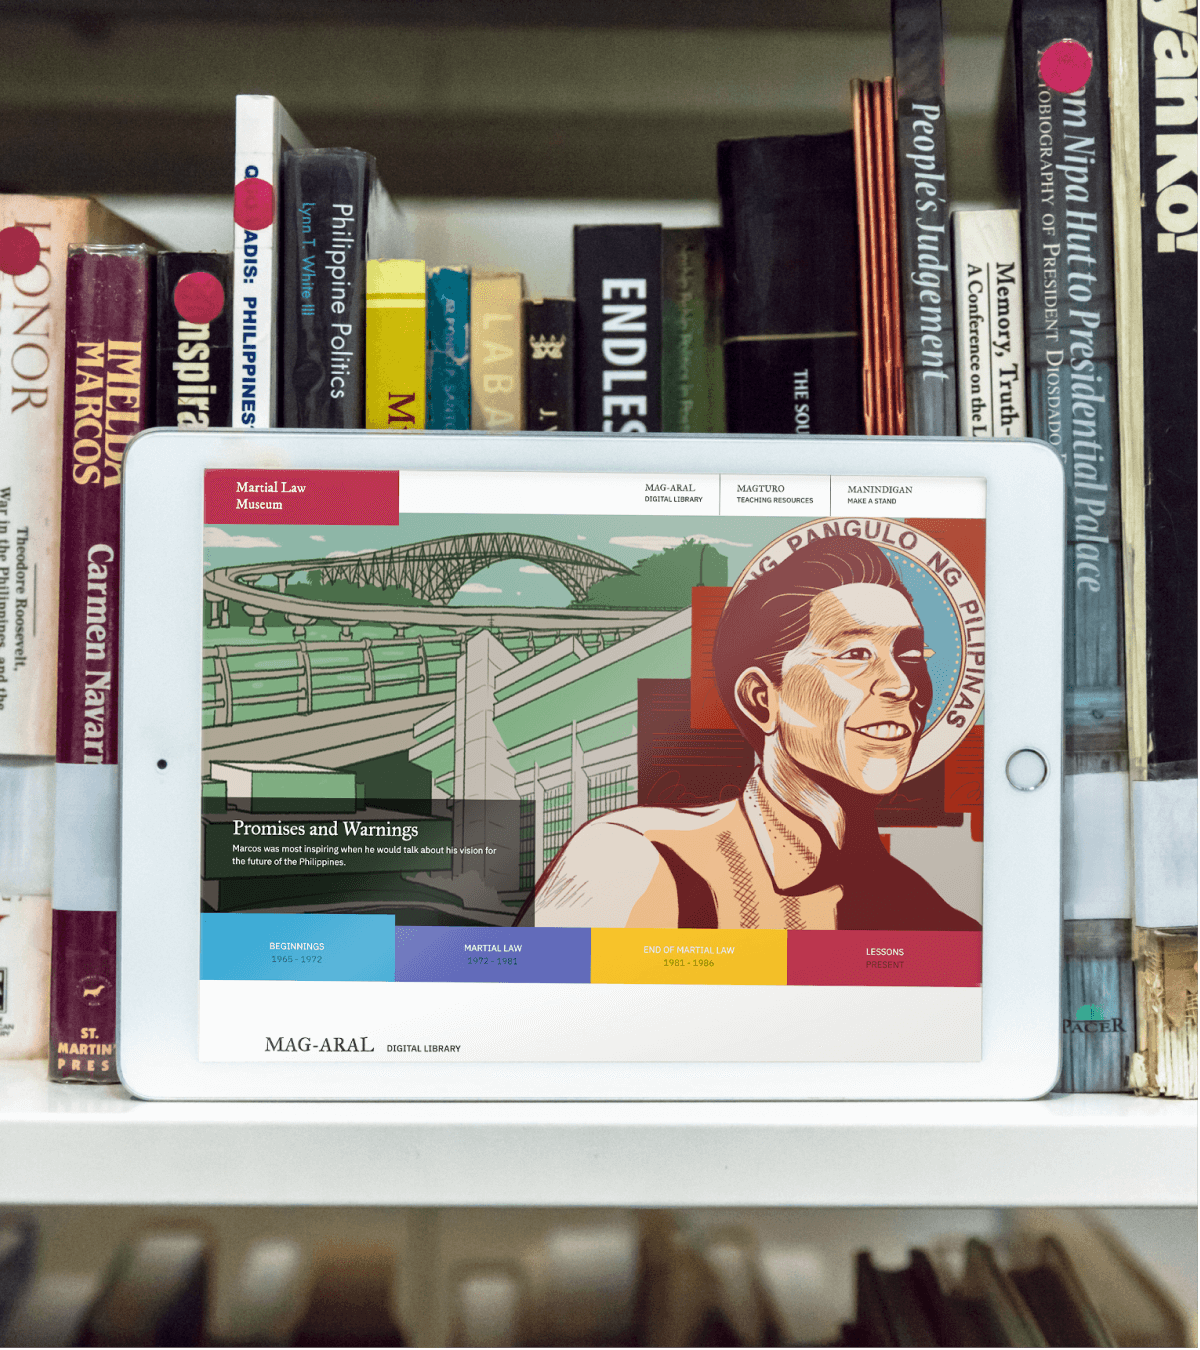
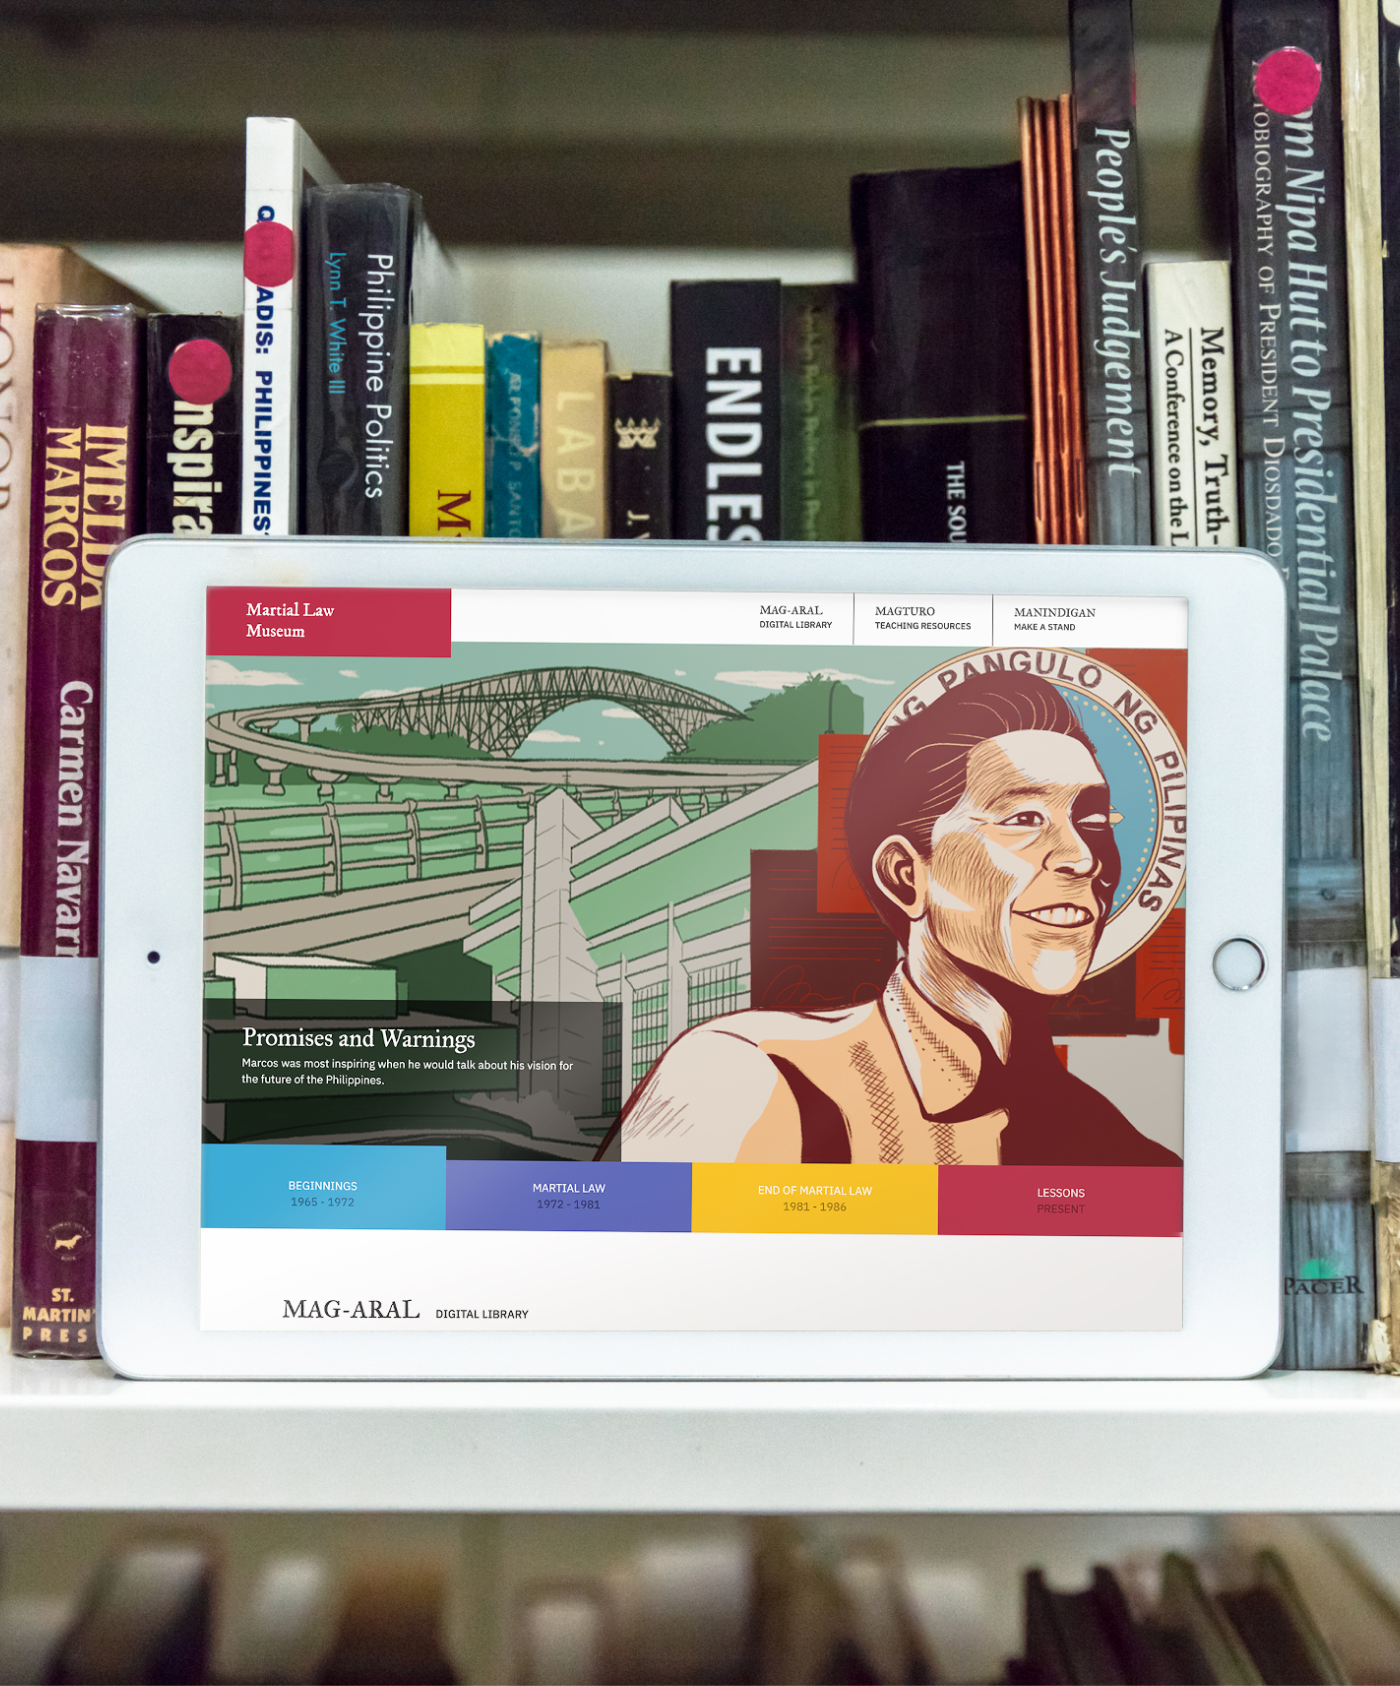
final photo adjustements

diff --git a/martial-law-museum/index.html b/martial-law-museum/index.html
@@ -240,7 +240,7 @@
   </section>
 
 	<section class="full-width last-section">
-		<img src="/assets/images/project-mlm/mlm-final.png">
+		<img src="/assets/images/project-mlm/mlm-finalb.png">
 		<h4 class="final-note">Learn more about the Martial Law Museum on their <a href="https://martiallawmuseum.ph/" target="_blank">website</a> and <a href="https://www.facebook.com/MartialLawMuseum/" target="_blank">Facebook</a>.</h4>
 	</section>
 </div>
